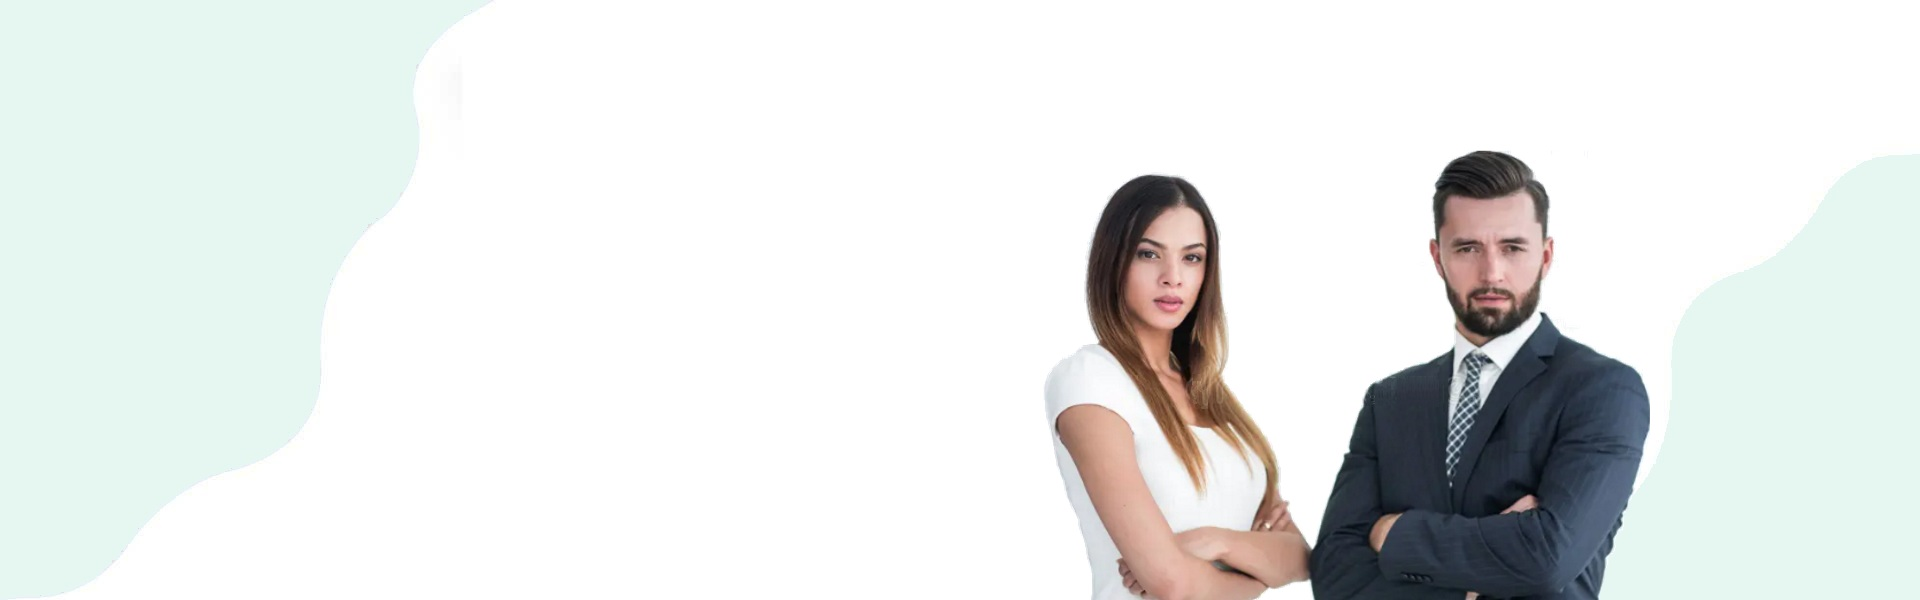
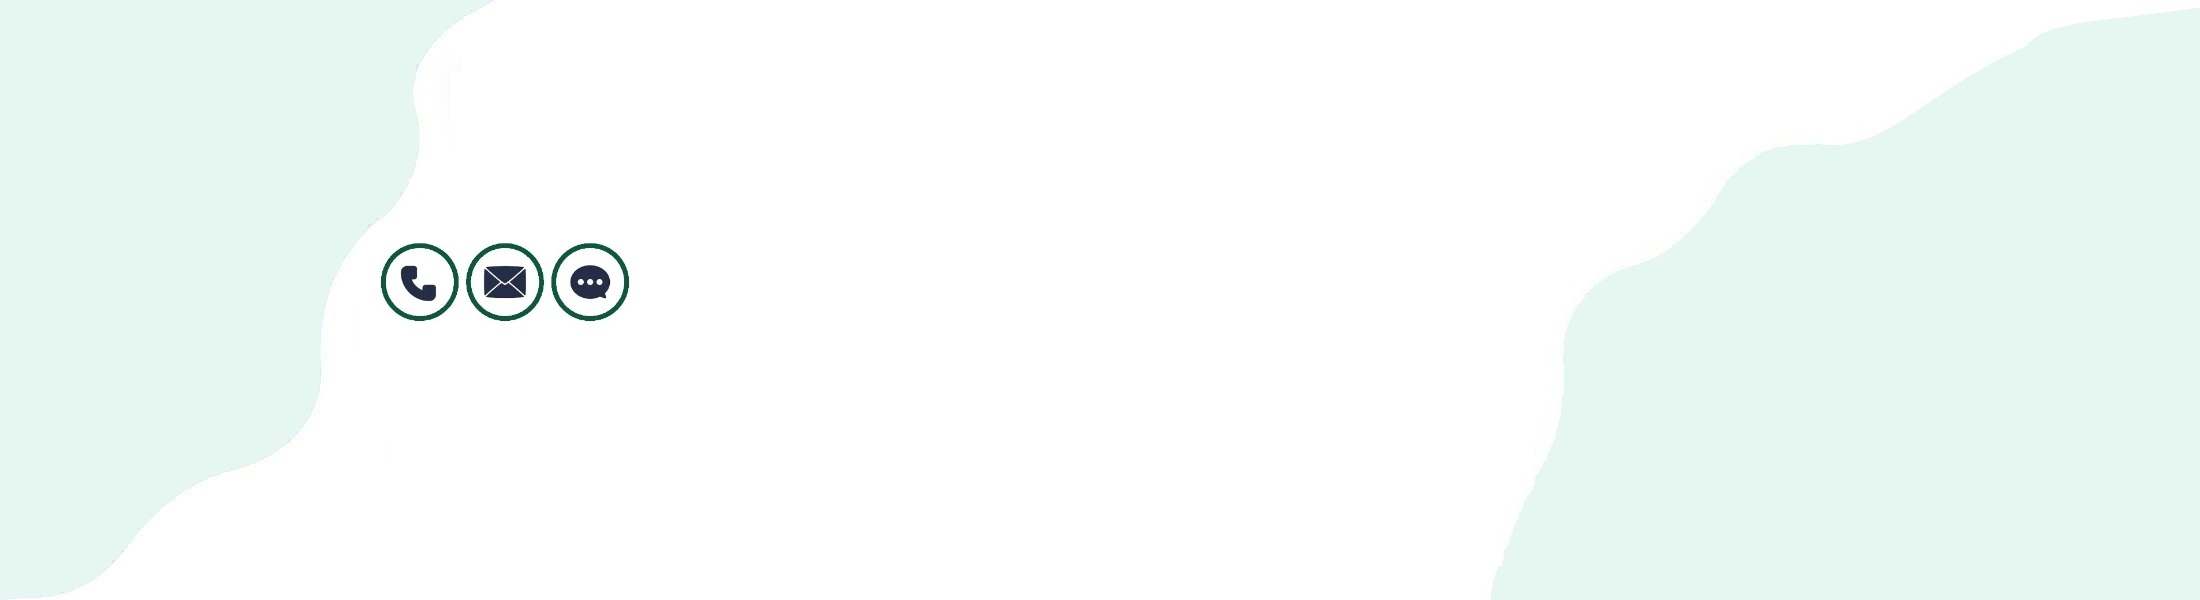
cleanup

diff --git a/index.html b/index.html
@@ -552,7 +552,7 @@
             <div class="row g-4">
                 <div class="col-lg-4 col-md-6 wow fadeInUp" data-wow-delay="0.1s">
                     <div class="team-item">
-                        <img class="img-fluid rounded" src="img/team-01.png" alt="CEO">
+                        <img class="img-fluid rounded" src="img/team-icon.png" alt="CEO">
                         <div class="team-text">
                             <h4 class="mb-0">Bratislav	Blagojević</h4>
                             <!--div class="team-social d-flex">
@@ -568,7 +568,7 @@
                 </div>
                 <div class="col-lg-4 col-md-6 wow fadeInUp" data-wow-delay="0.3s">
                     <div class="team-item">
-                        <img class="img-fluid rounded" src="img/team-02.png" alt="Član UO">
+                        <img class="img-fluid rounded" src="img/team-icon.png" alt="Član UO">
                         <div class="team-text">
                             <h4 class="mb-0">Jovan	Tegeltija</h4>
                             <!--div class="team-social d-flex">
@@ -584,7 +584,7 @@
                 </div>
                 <div class="col-lg-4 col-md-6 wow fadeInUp" data-wow-delay="0.5s">
                     <div class="team-item">
-                        <img class="img-fluid rounded" src="img/team-03.png" alt="Član UO">
+                        <img class="img-fluid rounded" src="img/team-icon.png" alt="Član UO">
                         <div class="team-text">
                             <h4 class="mb-0">Ognjen	Todorović</h4>
                             <!--div class="team-social d-flex">

diff --git a/contact.html b/contact.html
@@ -104,18 +104,17 @@
     <!-- Page Header Start -->
     <div class="container-fluid page-header mb-5 wow fadeIn" data-wow-delay="0.1s">
         <div class="container">
-            <h1 class="display-3 mb-4 animated slideInDown">Kontakt</h1>
-            <nav aria-label="breadcrumb animated slideInDown">
+            <!--h1 class="display-3 mb-4 animated slideInDown">Kontakt</h1-->
+            <!--nav aria-label="breadcrumb animated slideInDown">
                 <ol class="breadcrumb mb-0">
                     <li class="breadcrumb-item"><a href="index.html">Početna</a></li>
                     <li class="breadcrumb-item active" aria-current="page">Kontakt</li>
                 </ol>
-            </nav>
+            </nav-->
         </div>
     </div>
     <!-- Page Header End -->
-
-
+	
     <!-- Contact Start -->
     <div class="container-xxl py-5">
         <div class="container">
